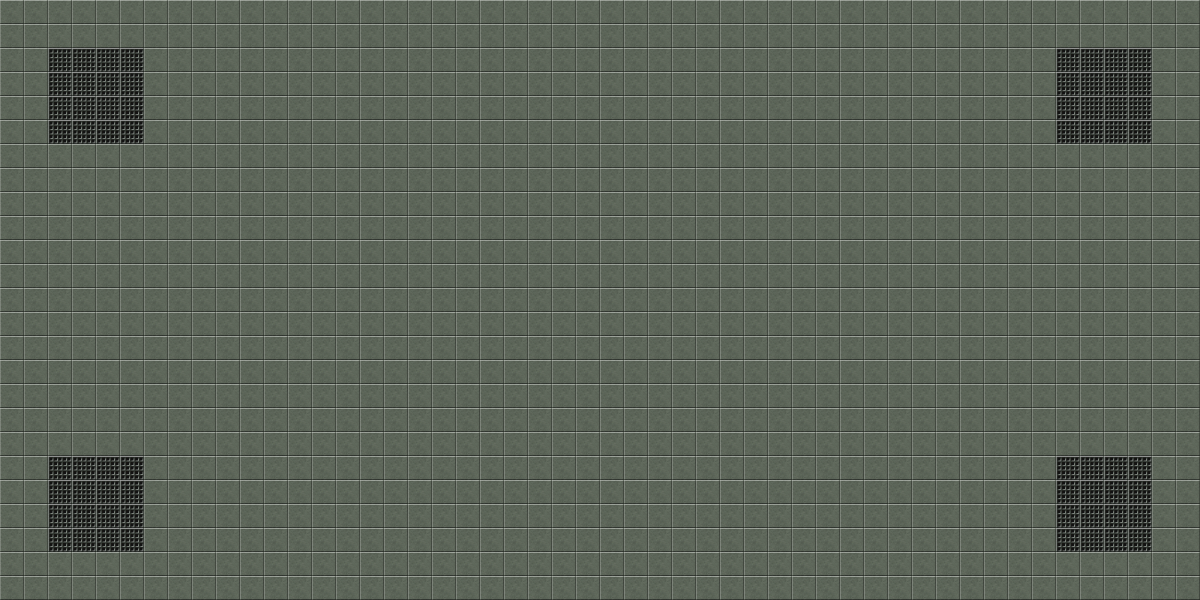
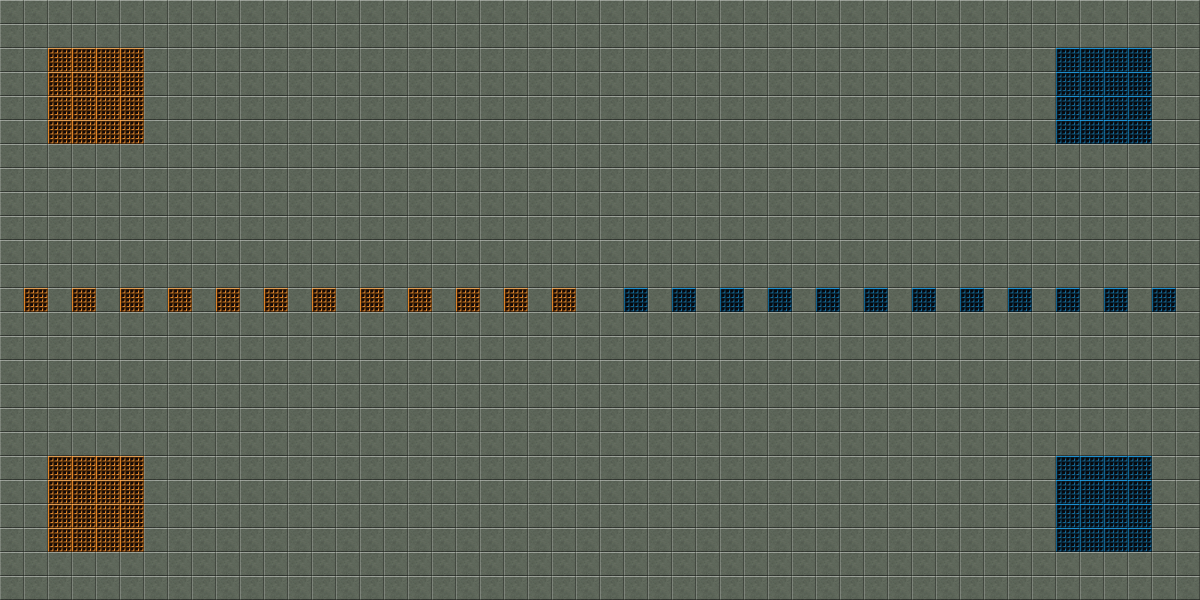
Mapa

diff --git a/src/game/scenes/PlayScene.js b/src/game/scenes/PlayScene.js
@@ -8,6 +8,19 @@ var velocitat = 1;
 var rotacio = 0.05;
 var barrera1;
 var barrera2;
+var barrera3;
+var barrera4;
+var barrera5;
+var barrera6;
+var barrera_colors1;
+var barrera_colors2;
+var creu;
+var creu_blau;
+var creu_taronja;
+var creu1;
+var creu_blau1;
+var creu_taronja1;
+var forma;
 
 export default class PlayScene extends Scene {
   constructor () {
@@ -17,23 +30,38 @@ export default class PlayScene extends Scene {
   create () {
     this.add.image(600, 300, 'sky');
 
-    barrera1=this.physics.add.staticImage(600,10,'barrera');
-    barrera2=this.physics.add.staticImage(600,590,'barrera');
+    barrera1=this.physics.add.staticImage(600, 590,'barrera');
+    barrera2=this.physics.add.staticImage(600,12,'barrera');
+    barrera3=this.physics.add.staticImage(1190, 300, 'barrera2');
+    barrera4=this.physics.add.staticImage(14, 300, 'barrera2');
+    barrera_colors1=this.physics.add.staticImage(995, 155, 'barrera_colors_blau');
+    barrera_colors2=this.physics.add.staticImage(205, 445, 'barrera_colors_taronja');
+    creu=this.physics.add.staticImage(348, 157, 'creu');
+    creu1=this.physics.add.staticImage(852, 444, 'creu');
+    creu_blau=this.physics.add.staticImage(900, 444, 'creub');
+    creu_blau1=this.physics.add.staticImage(805, 444, 'creub');
+    creu_taronja=this.physics.add.staticImage(396, 157, 'creut');
+    creu_taronja1=this.physics.add.staticImage(300, 157, 'creut');
+    forma= this.physics.add.staticImage(600, 300, 'forma');
+
+
 
     player1 = this.physics.add.image(100, 100, 'bomb');
-
     player1.body.setVelocity(100, 200).setBounce(1, 1).setCollideWorldBounds(true);
 
-    /*
-    barrera.create(600,10,'barrera');
-    barrera.create(600,590,'barrera');
-    barrera.create(600,300,'barrera');
-     */
+    player2 = this.physics.add.image(780, 580, 'bomb');
+    player2.body.setVelocity(100, 200).setBounce(1, 1).setCollideWorldBounds(true);
+
 	// enable worldbounds collision event
-    /*1
+/*
+    player1 = this.physics.add.sprite(100, 100, 'bomb');
+    player1.setCollideWorldBounds(true);
+    player1.body.onWorldBounds = true; // enable worldbounds collision event
+    player1.rotation = Math.PI;
+
 	player2 = this.physics.add.sprite(780, 580, 'bomb');
     player2.setCollideWorldBounds(true);
-    player2.body.onWorldBounds = true; // enable worldbounds collision event
+    player2.body.onWorldBounds = true; //enable worldbounds collision event
     player2.rotation = Math.PI;
 */
 
@@ -55,7 +83,20 @@ export default class PlayScene extends Scene {
   }
 
   update () {
-    this.physics.world.collide(player1, [barrera1, barrera2]);
+    this.physics.world.collide([player1,player2], [barrera1, barrera2, barrera3, barrera4, barrera5, barrera6, barrera_colors1, barrera_colors2, creu, creu_taronja, creu_blau,
+      creu1, creu_taronja1, creu_blau1, forma], function(){
+            console.log("1");
+      });
+
+    forma.angle += 0.5;
+    /*
+    creu.angle += 0.5;
+    creu1.angle += 0.5;
+    creu_blau.angle += 0.5;
+    creu_blau1.angle += 0.5;
+    creu_taronja.angle += 0.5;
+    creu_taronja1.angle += 0.5;
+
     /*
   // CONTROLS NO AUTOMATICS
 	// CONTROLS player1
@@ -107,7 +148,7 @@ export default class PlayScene extends Scene {
     {
         player1.rotation -= rotacio;
     }
-    /*
+
     // CONTROLS player2
     if (keys.a.isDown)
     {
@@ -117,13 +158,13 @@ export default class PlayScene extends Scene {
     {
         player2.rotation -= rotacio;
     }
-*/
+
     player1.x += velocitat * Math.sin(player1.rotation);
     player1.y += velocitat * Math.cos(player1.rotation);
-/*
+
     player2.x += velocitat * Math.sin(player2.rotation);
     player2.y += velocitat * Math.cos(player2.rotation);
-*/
+
 
 
   }

diff --git a/src/game/scenes/BootScene.js b/src/game/scenes/BootScene.js
@@ -1,7 +1,17 @@
 import {Scene} from 'phaser'
 import sky from '@/game/assets/prova.png';
 import bomb from '@/game/assets/bomb.png';
-import barrera from '@/game/assets/barrera.png';
+import barrera from '@/game/assets/barrera2.png';
+import barrera2 from '@/game/assets/barrera3.png';
+import barrera3 from '@/game/assets/barrera4.png';
+import barrera_colors_taronja from '@/game/assets/barrera-colors.png';
+import barrera_colors_blau from '@/game/assets/barrera-colors-1.png';
+import creu from '@/game/assets/creuv.png';
+import creub from '@/game/assets/creub.png';
+import creut from '@/game/assets/creut.png';
+import forma from '@/game/assets/forma.png';
+
+
 
 export default class BootScene extends Scene {
     constructor() {
@@ -12,6 +22,14 @@ export default class BootScene extends Scene {
         this.load.image('sky', sky);
         this.load.image('bomb', bomb);
         this.load.image('barrera', barrera);
+        this.load.image('barrera2', barrera2);
+        this.load.image('barrera3', barrera3);
+        this.load.image('barrera_colors_taronja', barrera_colors_taronja);
+        this.load.image('barrera_colors_blau', barrera_colors_blau);
+        this.load.image('creu', creu);
+        this.load.image('creub', creub);
+        this.load.image('creut', creut);
+        this.load.image('forma', forma);
         // this.load.audio('thud', ['assets/thud.mp3', 'assets/thud.ogg'])
     }
 
